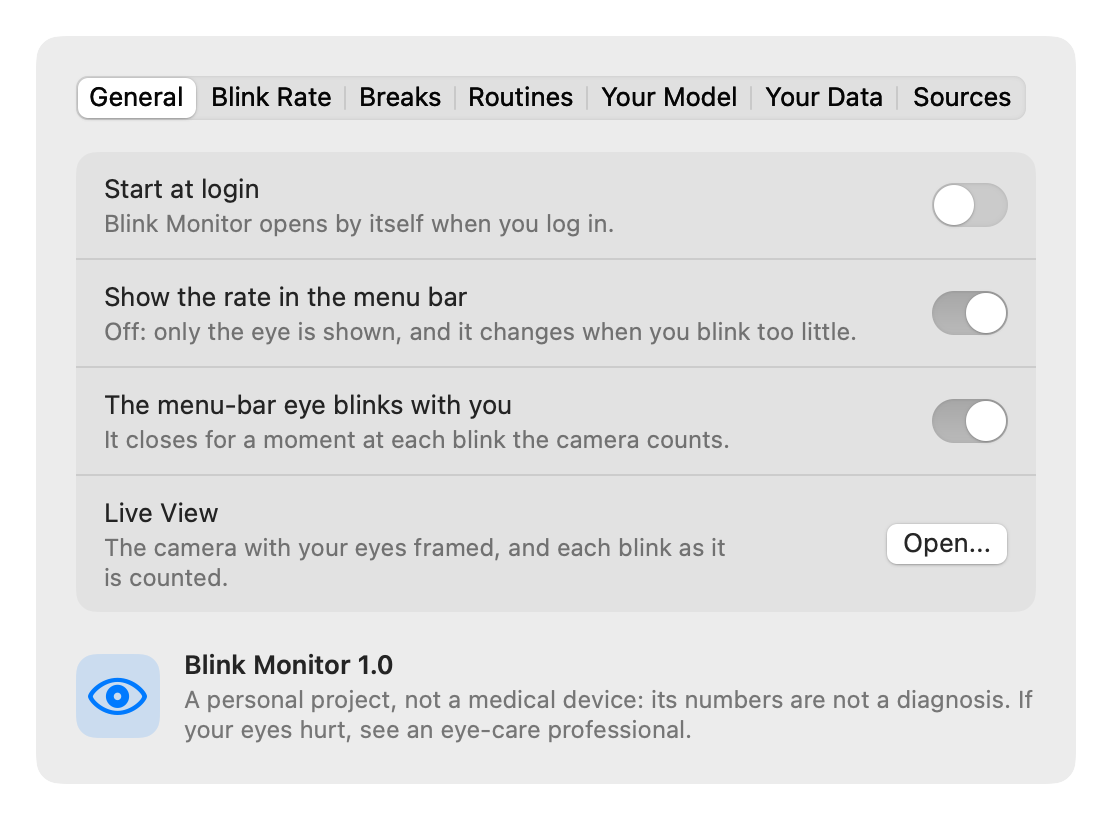
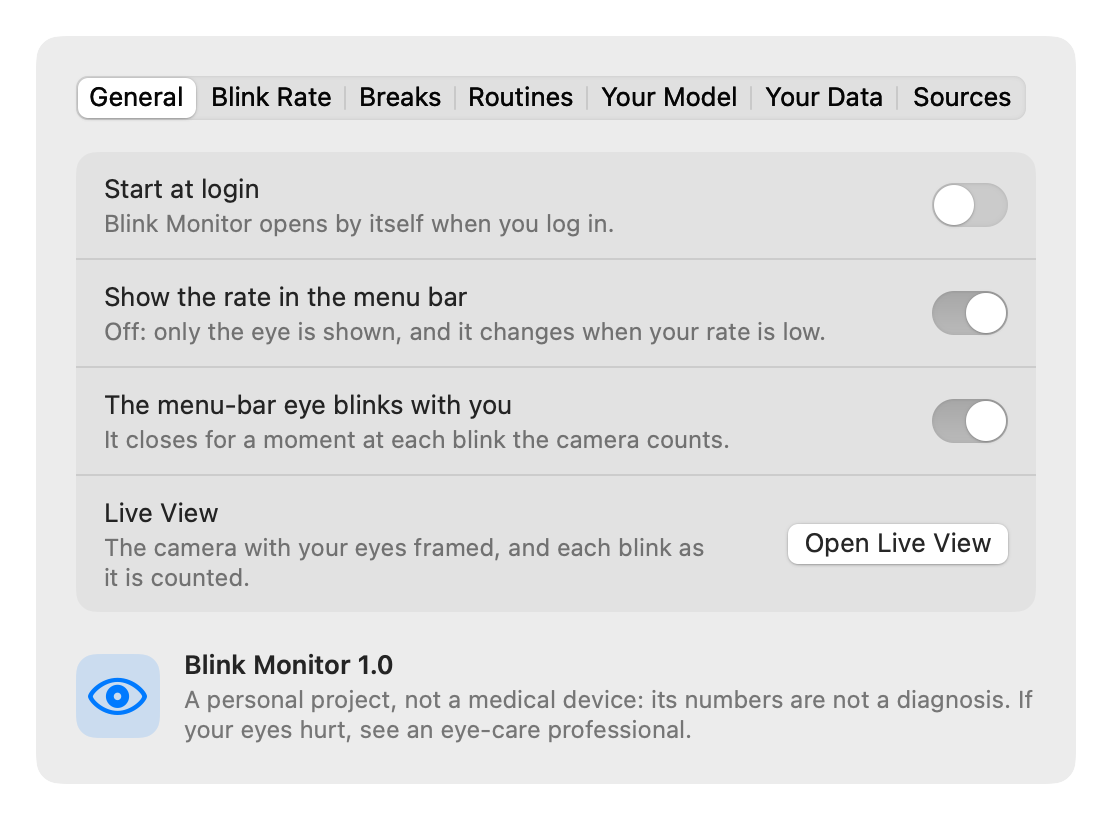
The panel: the four actions sit under the rate, and before the setup it shows only what is useful
Blink Break, Pause, History and Settings were at the very bottom, at a
different height each time the panel opened. They now follow the rate. Before
the setup the panel is the sentence, the setup button, Settings and Quit:
no dashes, no empty chart. The pictures in docs/img are rendered again with
the new words.

Changed region(s): [[0.7032, 0.6402, 0.8867, 0.7012], [0.6115, 0.3963, 0.7644, 0.4268], [0.0917, 0.7012, 0.214, 0.7317]]

diff --git a/Sources/BlinkMonitor/MenuBar/MenuPanelView.swift b/Sources/BlinkMonitor/MenuBar/MenuPanelView.swift
@@ -55,11 +55,12 @@ struct MenuPanelView: View {
 
     private func panel(now: Date) -> some View {
         let status = model.status(now: now)
+        let bare = status == .needsSetup
         return VStack(alignment: .leading, spacing: 0) {
           // Everything above the buttons scrolls when the screen is too small for it (many
-          // routines, a low screen). The buttons stay put. 250: the buttons, the pause
-          // choices when they are open, and the panel's own arrow.
-          ScrollsWhenTall(reserved: 250) {
+          // routines, a low screen). The last row stays put. 60: that row and the panel's
+          // own arrow.
+          ScrollsWhenTall(reserved: 60) {
            VStack(alignment: .leading, spacing: 0) {
             if onDiskImage { DiskImageBanner() }
             if model.isDemo { DemoBanner(actions: actions) }
@@ -67,20 +68,29 @@ struct MenuPanelView: View {
                 NowSection(status: status, blinks: model.live.counters.totalBlinks, begun: preferences.welcomed,
                            limit: preferences.limit, offersSetup: model.failure?.offersSetup ?? false,
                            tryAgain: { Task { await model.tryAgain() } }, actions: actions)
-                Notes(status: status, history: history, reminders: reminders, preferences: preferences, now: now)
+                // The four actions sit directly under the rate, at the same place each time
+                // the panel opens: at the bottom they moved with every routine and note.
+                if !bare {
+                    ActionTiles(model: model, state: state, status: status, actions: actions)
+                        .padding(.top, 4)
+                    Notes(status: status, history: history, reminders: reminders, preferences: preferences, now: now)
+                }
             }
             .padding(16)
-            Divider()
-            RoutineBlock(routines: model.routines, now: now)
-            TodaySection(history: history, state: state, limit: preferences.limit, now: now)
-                .padding(16)
+            // Before the setup there is nothing to show: dashes, "0 min" and an empty
+            // chart around the one useful button said less than the sentence alone.
+            if !bare {
+                Divider()
+                RoutineBlock(routines: model.routines, now: now)
+                TodaySection(history: history, state: state, limit: preferences.limit, now: now)
+                    .padding(16)
+            }
            }
           }
             Divider()
-            ActionsSection(model: model, state: state, status: status, actions: actions)
+            FooterRow(model: model, bare: bare, actions: actions)
                 .padding(.horizontal, 16)
-                .padding(.top, 14)
-                .padding(.bottom, 10)
+                .padding(.vertical, 10)
         }
         .frame(width: 340)
     }
@@ -482,7 +492,7 @@ private struct MinuteBars: View {
 
 // MARK: - Actions
 
-private struct ActionsSection: View {
+private struct ActionTiles: View {
     @ObservedObject var model: MonitorModel
     @ObservedObject var state: PanelState
     let status: MonitorStatus
@@ -519,10 +529,25 @@ private struct ActionsSection: View {
                 }
             }
 
+        }
+    }
+}
+
+/// The last row of the panel: the version, Quiet, Live View and Quit. Before the setup,
+/// Settings and Quit only.
+private struct FooterRow: View {
+    @ObservedObject var model: MonitorModel
+    let bare: Bool
+    let actions: PanelActions
+
+    var body: some View {
             HStack(spacing: 14) {
                 Text("Blink Monitor \(AppInfo.version)")
                     .foregroundStyle(.tertiary)
                 Spacer()
+                if bare {
+                    Button("Settings") { actions.openSettings() }
+                } else {
                 // "Leave me alone for an hour": every banner and sound is held, counting
                 // goes on. Pause is something else: it turns the camera off.
                 Menu {
@@ -539,12 +564,12 @@ private struct ActionsSection: View {
                 .help("No reminder, no look-away break and no sound for a while. Blinks are still counted.")
                 Button("Live View") { actions.openLiveView() }
                     .help("The camera with your eyes framed, and each blink as it is counted")
+                }
                 Button("Quit") { actions.quit() }
             }
             .font(.caption)
             .buttonStyle(.plain)
             .foregroundStyle(.secondary)
-        }
     }
 }
 
